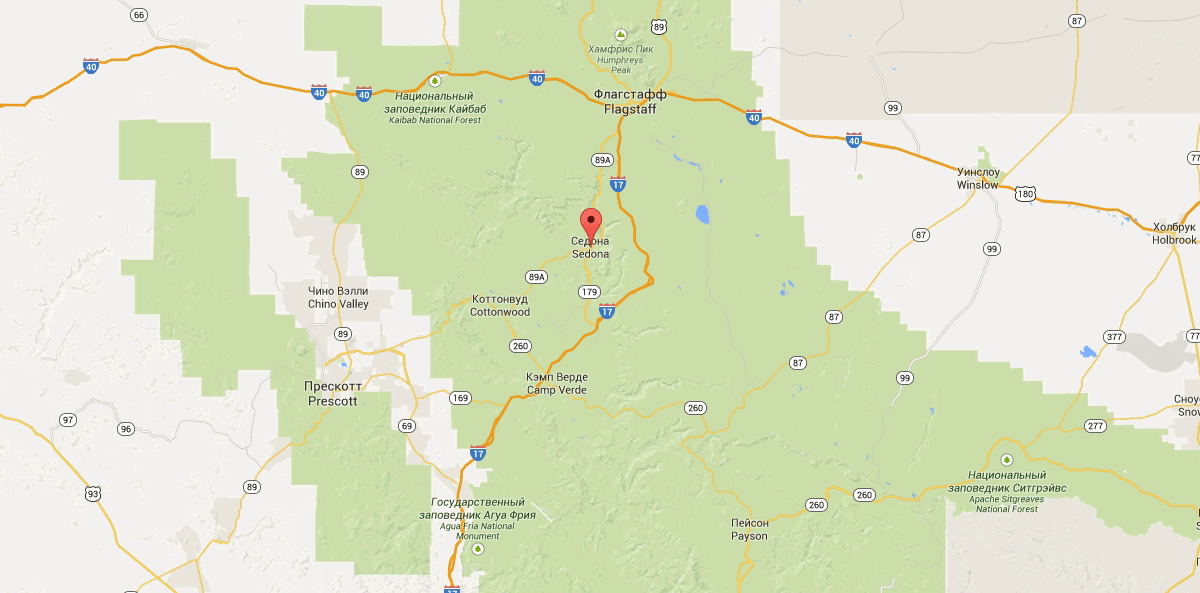
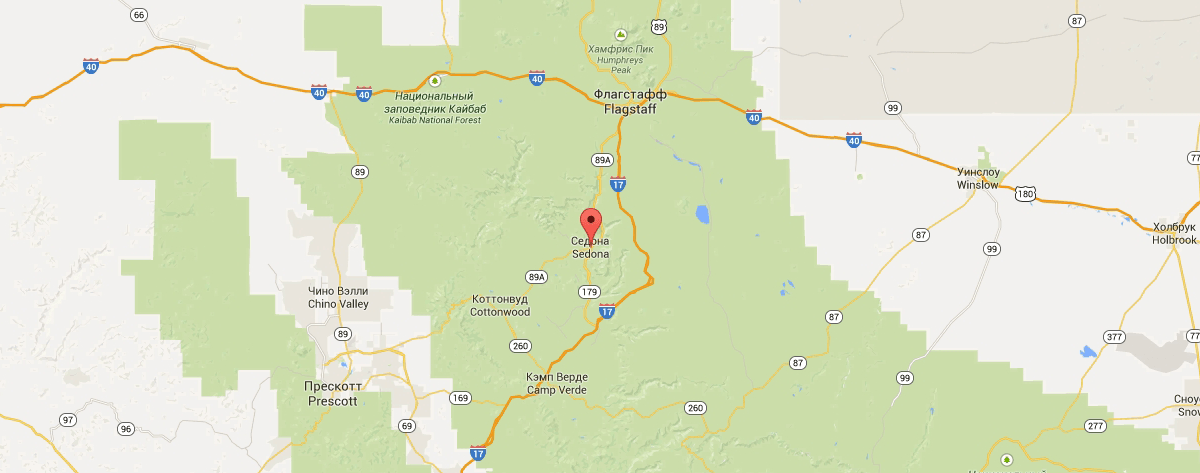
можно смотреть сетку

diff --git a/index.html b/index.html
@@ -7,7 +7,7 @@
   </head>
   <body>
     <header class="main-header">
-     <div class="container">
+     <div class="container clearfix">
             <nav>
               <ul class="main-header_list">
                <li class="main-header_list-item">
@@ -16,7 +16,7 @@
                <li class="main-header_list-item">
                  <a href="#">Фото и видео</a>
                </li>
-               <li class="main-header_list-item_logo"><a href="#"><img src="img/Group%201.png" width="138" height="70" alt="city of Sedona"></a></li>
+               <li class="main-header_list-item"><a href="#"><img src="img/Group%201.png" width="138" height="70" alt="city of Sedona"></a></li>
                <li class="main-header_list-item">
                  <a href="#">Карта штата</a>
                </li>
@@ -28,9 +28,9 @@
       </div>
     </header>
     
-    <main class="container">
+    <main class="container clearfix">
        <div class="index-logo">
-         <div class="index-logo_bg"><img src="img/intro-bg.jpg" width="1200" height="508" alt="Welcome to Sedona"></div>
+         <!--<div class="index-logo_bg"><img src="img/intro-bg.jpg" width="1200" height="508" alt="Welcome to Sedona"></div>-->
          <div class="index-logo_text"><img src="img/welcome.png" width="458" height="352" alt="Welcome to Sedona"></div>
          <div class="index-logo_footer"><img src="img/intro-bg-footer.png" width="1200" height="57" alt="Welcome to Sedona"></div>
        </div>
@@ -41,7 +41,6 @@
            Рассмотрим 5 причин, по которым Седона круче, чем Гранд Каньон!
          </p>
        </div>
-       
        <section class="poster">
          <div class="poster-text">
            <h2 class="poster-text_title">
@@ -71,34 +70,31 @@
           <p class="features-item_subtitle-text">Не только Китайского, но и местного производства!</p>
         </div>
       </section>
-      
-      
-      <section class="poster">
-         <div class="poster-pic">
+      <section class="poster2">
+         <div class="poster2-pic">
            <img src="img/pic-2.jpg" width="800" height="256" alt="own-live">
          </div>
-         <div class="poster-text">
-           <h2 class="poster-text_title">
+         <div class="poster2-text">
+           <h2 class="poster2-text_title">
              Там есть мост дьявола
            </h2>
-           <p class="poster-text_info">-№2-</p>
-           <p class="poster-text_info">Да, по нему можно пройти! Если конечно Вы осмелитесь</p>
+           <p class="poster2-text_info">-№2-</p>
+           <p class="poster2-text_info">Да, по нему можно пройти! Если конечно Вы осмелитесь</p>
          </div>
       </section>
        <section class="fact">
-         <ul>
-        <li>
+         <ul class="fact_list">
+        <li class="fact_list-item">
             <h2  class="fact_title-text">Небольшая площадь</h2>
             <p class="fact_subtitle-text">-№3-</p>
             <p>Все достопримечательности находятся очень близко</p>
          </li>
-         <li>
+         <li class="fact_list-item">
            <h2 class="fact_title-text">Красивая дорога</h2>
            <p class="fact_subtitle-text">-№4-</p>
            <p class="fact_subtitle-text">Ехать в Седону из Лас-Вегаса совсем не скучно!</p>
-        </li>
-         
-         <li>
+         </li>
+         <li class="fact_list-item">
            <h2 class="fact_title-text">Мало туристов</h2>
            <p class="fact_subtitle-text">-№5-</p>
            <p class="fact_subtitle-text">Большенство едет в Гранд Каньон и толпится там</p>
@@ -107,13 +103,14 @@
        </section>
        <section class="booking-container">
         <div class="booking-scene">
-         <p class="booking-scene_header"><b class="booking-scene_header-interesting">Заинтересовались?</b></p>
-         <p class="booking-scene_subtitle-text"> Укажите предполагаемые даты поездки и мы покажем вам лучшие предложения гостиниц в Седоне</p>
+          <div class="booking-scene_header"><p class="booking-scene_header"><b class="booking-scene_header-interesting">Заинтересовались?</b></p>
+         <p class="booking-scene_subtitle-text">Укажите предполагаемые даты поездки и мы покажем вам лучшие предложения гостиниц в Седоне</p>
+         </div>
          <div class="booking-scene_map">
-           <img src="img/map.png" width="1200" height="593" alt="map">
+           <img src="img/map.png" width="1200" height="473" alt="map">
          </div>
         </div>
-          <div class="form-container">
+          <!--<div class="form-container">
             <div class="form-header">
               <h2 class="form-header_title">Поиск гостиницы в Седоне</h2>
             </div>
@@ -144,31 +141,33 @@
                 </div>
               </form>
             </fieldset>
-            </div>
+            </div>-->
         </section>
-       </div>
     </main>
     <footer class="main-footer">
+     <div class="container clearfix">
       <div class="main-footer_hash-tag">
         <span class="visit">#Visitsedona</span>
       </div>
       <div class="main-footer_social">
        <ul class="social-list">
-        <li class="social-list_twitter">
+        <li class="social-list_item">
           <a href="#">Twitter</a>
         </li>
-        <li class="social-list_fb">
+        <li class="social-list_item">
           <a href="#">Facebook</a>
         </li>
-        <li class="social-list_youtube">
+        <li class="social-list_item">
           <a href="#">Youtube</a>
         </li>
       </ul>
       </div>
       <div class="main-footer_copyright">
-        <p class="main-footer_copyright-text">Website by</p>
+        <div><p class="main-footer_copyright-text">Website by</p>
+        </div>
         <div class="main-footer_copyright-pic">
         <a class="main-footer_copyright-pic_logo" href="#">logo-htmlacademy</a>
+        </div>
         </div>
       </div>
     </footer>

diff --git a/css/style.css b/css/style.css
@@ -1,10 +1,20 @@
 body {
+  min-width: 1280px;
+  min-height: 2762px;
+  background-size: 1280px auto;
   font-family: PT Sans, serif;
   font-size: 14px;
-  color: #333333;
   line-height: 26px;
   font-weight: normal;
   text-transform: uppercase;
+}
+body {
+  background: url("") no-repeat 50% 9px;
+}
+ul {
+  padding: 0;
+  margin: 0;
+  list-style: none;
 }
 h2 {
   font-size: 21px;
@@ -17,4 +27,161 @@ h1 {
   color: #000000;
   line-height: 36px;
 }
+.container {
+  width: 1200px;
+  margin: 0 auto;
+  min-height: 57px;
+}
+.main-header {
+  margin-bottom: 75px;
+  background: white;
+}
+nav {
+  width: 1060px;
+  height: 57px;
+  margin: 0 auto;
+  background-color: rgba(251,206,177,0.5)
+}
+.main-header_list-item {
+  display: inline-block;
+  width: 100px;
+  vertical-align: top;
+}
 
+.clearfix::after {
+  content: "";
+  display: table;
+  clear: both;
+}
+.index-logo_text {
+  margin-left: auto;
+  margin-right: auto;
+  width: 460px;
+  height: 352px;
+  margin-bottom: 24px;
+  background-color: rgba(0,255,255,0.5)
+}
+.index-logo_footer {
+  width: 1200px;
+  height: 57px;
+  margin-right: auto;
+  margin-left: auto;
+  margin-bottom: 60px;
+}
+.intro {
+  width: 490px;
+  min-height: 100px;
+  margin-right: auto;
+  margin-left: auto;
+  margin-bottom: 55px;
+  background-color: rgba(58,117,196,0.5);
+}
+.poster {
+  width: 1200px;
+  height: 256px;
+  margin: 0 auto;
+  background-color: darksalmon;
+  margin-bottom: 58px;
+}
+.poster2 {
+  width: 1200px;
+  height: 256px;
+  margin: 0 auto;
+  background-color: darksalmon;
+  margin-bottom: 50px;
+}
+.poster2-pic {
+  float:left;
+  height: 256px;
+}
+.poster2-text {
+  float: right;
+  width: 400px;
+  height: 256px;
+  background-color: deeppink;
+}
+.poster-text {
+  float: left;
+  width: 400px;
+  height: 256px;
+  background-color: deeppink;
+}
+.features {
+  font-size: 0;
+  width: 1200px;
+  min-height: 190px;
+  margin-right: auto;
+  margin-left: auto;
+  background-color: rgba(195,176,145,0.5);
+  margin-bottom: 65px;
+}
+.features-item {
+  font-size: 14px;
+  display: inline-block;
+  width: 400px;
+  vertical-align: top;
+  background-color: rgba(251,206,177,0.5);
+}
+.fact {
+  font-size: 0;
+  margin-bottom: 55px;
+  width: 1200px;
+  min-height: 150px;
+  margin-right: auto;
+  margin-left: auto;
+  background-color: rgba(251,206,177,0.5);
+}
+.fact_list-item {
+  font-size: 14px;
+  display: inline-block;
+  width: 400px;
+  min-height: 150px;
+  vertical-align: top;
+  background-color: rgba(195,176,145,0.5);
+}
+
+.booking-scene_header {
+  width: 1200px;
+  height: 290px;
+  margin-left: auto;
+  margin-right: auto;
+  background-color: rgba(195,176,145,0.5);
+}
+.booking-scene_map {
+  margin-left: auto;
+  margin-right: auto;
+  width: 1200px;
+  height: 473px;
+}
+
+.main-footer {
+  background-color: aqua;
+  height: 120px;
+}
+.main-footer .container {
+  margin-top: 0px;
+  padding-top: 35px;
+  padding-bottom: 35px;
+  height: 120px;
+  background: url("/Users/Dkfolkin/172983-sedona/img/footer-bg.png") no-repeat;
+}
+.main-footer_hash-tag {
+  float: left;
+  margin-right: 210px;
+  width: 240px;
+  min-height: 25px;
+}
+.main-footer_social {
+  float: left;
+  margin-right: 213px;
+  min-width: 155px;
+  min-height: 55px;
+}
+.main-footer_copyright {
+  float: right;
+  min-width:  width: 240px;
+  min-height: 43px;
+}
+.social-list_item {
+  display: inline-block;
+}
